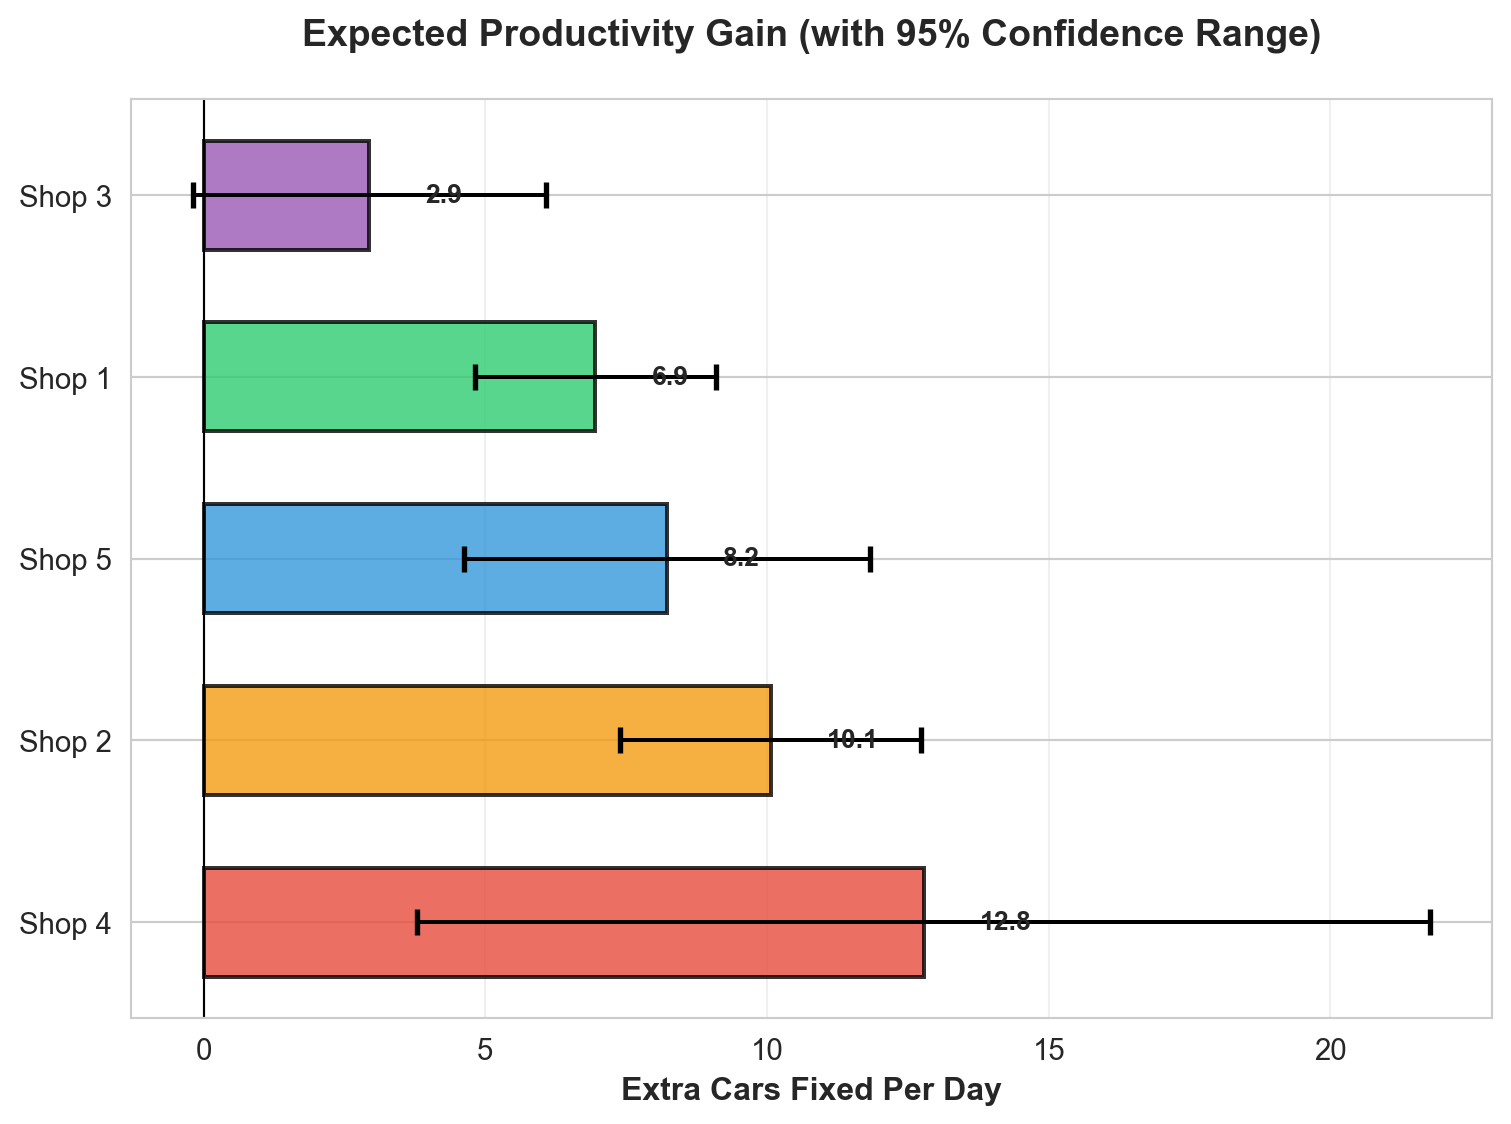
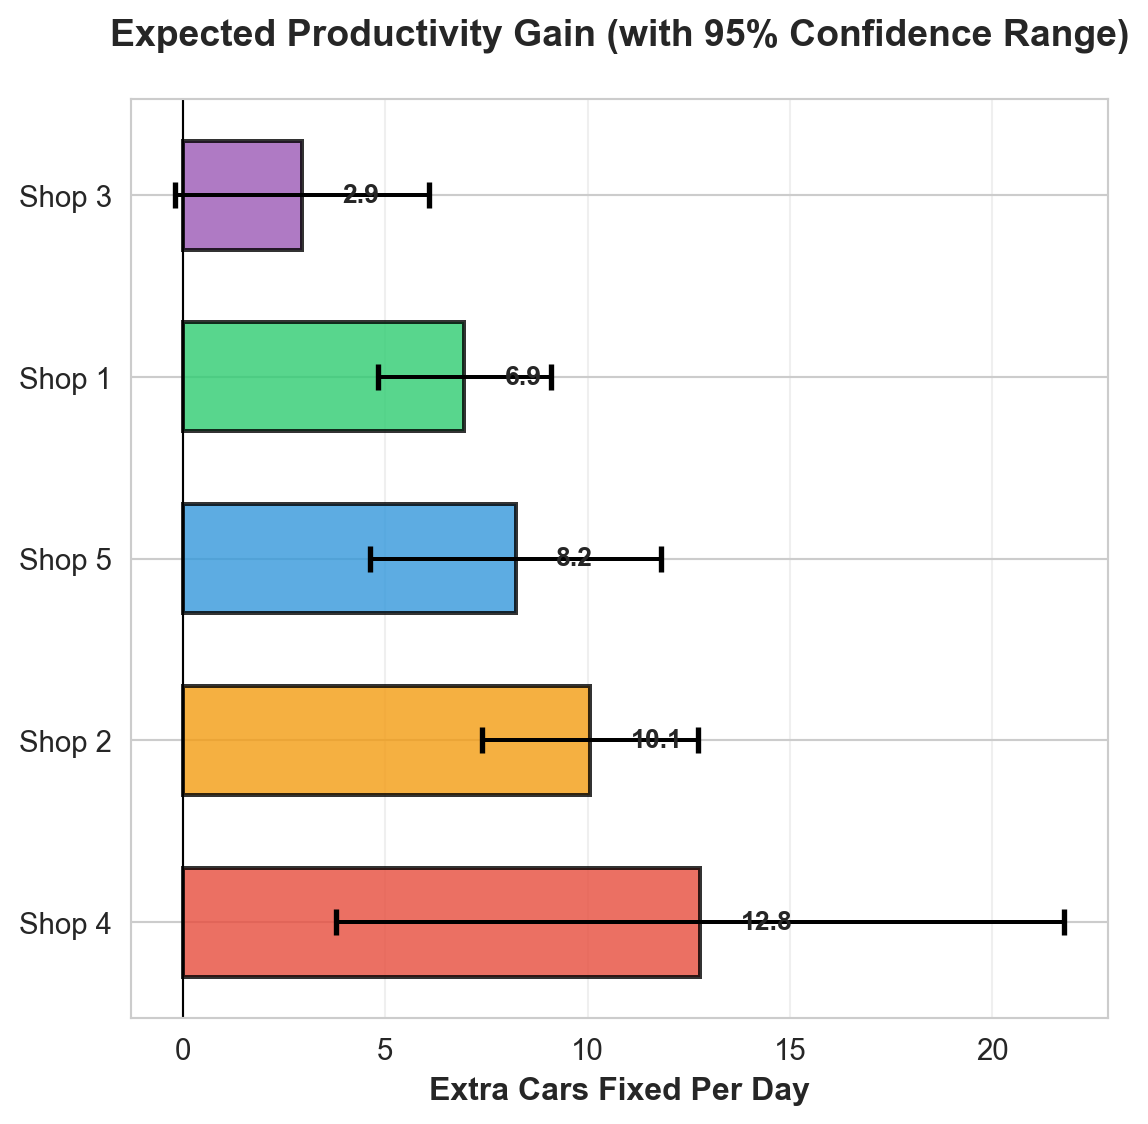
updated graph with new nodes and edges

diff --git a/index.html b/index.html
@@ -80,7 +80,7 @@ ul.task-list li input[type="checkbox"] {
 <div id="fig-all-data" class="quarto-float quarto-figure quarto-figure-center anchored">
 <figure class="quarto-float quarto-float-fig figure">
 <div aria-describedby="fig-all-data-caption-0ceaefa1-69ba-4598-a22c-09a6ac19f8ca">
-<img src="index_files/figure-html/fig-all-data-output-1.png" width="1524" height="373" class="figure-img">
+<img src="index_files/figure-html/fig-all-data-output-1.png" width="755" height="563" class="figure-img">
 </div>
 <figcaption class="quarto-float-caption-bottom quarto-float-caption quarto-float-fig" id="fig-all-data-caption-0ceaefa1-69ba-4598-a22c-09a6ac19f8ca">
 Figure&nbsp;1: All 250 days of productivity data. Each point shows cars fixed that day. Blue = boss absent, Orange = boss present. Notice how some shops show bigger jumps when the boss is present.
@@ -158,7 +158,7 @@ Figure&nbsp;2: Daily productivity gain when Patrick is present, by shop. Higher 
 <div id="fig-confidence" class="quarto-float quarto-figure quarto-figure-center anchored">
 <figure class="quarto-float quarto-float-fig figure">
 <div aria-describedby="fig-confidence-caption-0ceaefa1-69ba-4598-a22c-09a6ac19f8ca">
-<img src="index_files/figure-html/fig-confidence-output-1.png" width="756" height="562" class="figure-img">
+<img src="index_files/figure-html/fig-confidence-output-1.png" width="574" height="562" class="figure-img">
 </div>
 <figcaption class="quarto-float-caption-bottom quarto-float-caption quarto-float-fig" id="fig-confidence-caption-0ceaefa1-69ba-4598-a22c-09a6ac19f8ca">
 Figure&nbsp;3: Range of expected productivity gains. The bars show the 95% confidence range—meaning we’re 95% confident the true impact falls within these ranges.
@@ -182,7 +182,7 @@ Figure&nbsp;3: Range of expected productivity gains. The bars show the 95% confi
 <div id="fig-projections" class="quarto-float quarto-figure quarto-figure-center anchored">
 <figure class="quarto-float quarto-float-fig figure">
 <div aria-describedby="fig-projections-caption-0ceaefa1-69ba-4598-a22c-09a6ac19f8ca">
-<img src="index_files/figure-html/fig-projections-output-1.png" width="947" height="564" class="figure-img">
+<img src="index_files/figure-html/fig-projections-output-1.png" width="755" height="564" class="figure-img">
 </div>
 <figcaption class="quarto-float-caption-bottom quarto-float-caption quarto-float-fig" id="fig-projections-caption-0ceaefa1-69ba-4598-a22c-09a6ac19f8ca">
 Figure&nbsp;4: Projected annual impact of different scheduling strategies. Strategy A prioritizes high-impact shops (4, 2, 5), Strategy B is equal time at all shops, Strategy C is current pattern.
@@ -192,7 +192,8 @@ Figure&nbsp;4: Projected annual impact of different scheduling strategies. Strat
 </div>
 <div class="cell-output cell-output-stdout">
 <pre><code>
-**Key Insight:** By focusing on Shops 4, 2, and 5, you could add approximately 833 more cars per year compared to your current pattern.
+**Key Insight:** By focusing on Shops 4, 2, and 5, you could add approximately 
+833 more cars per year compared to your current pattern.
 That's roughly $25,002 in additional annual revenue.</code></pre>
 </div>
 </div>
